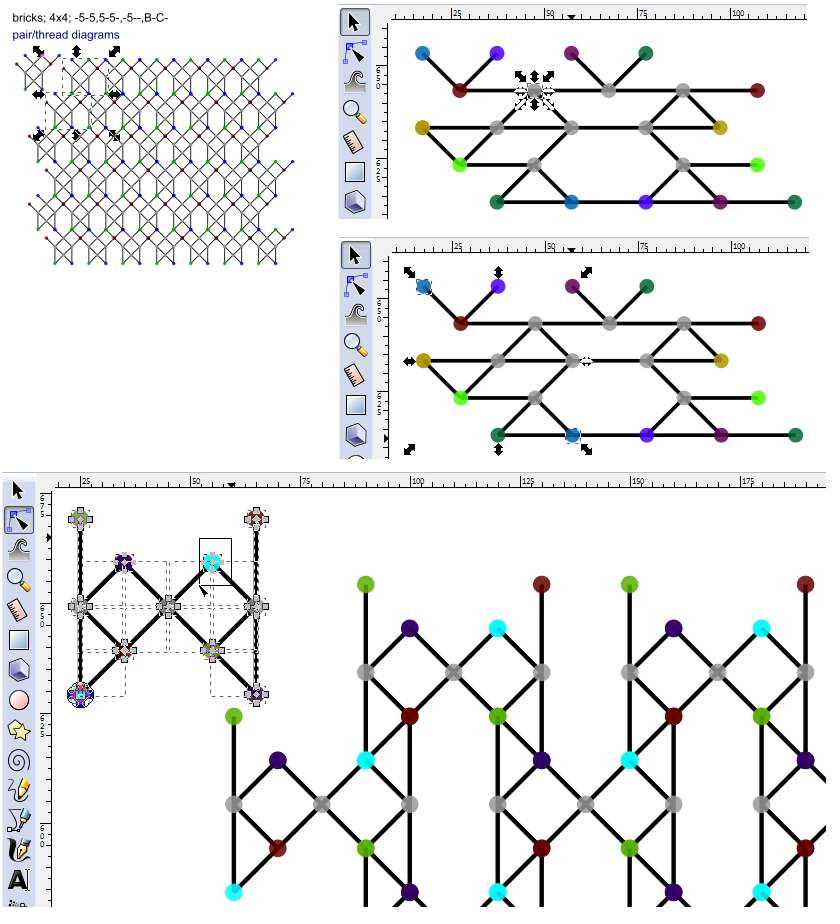
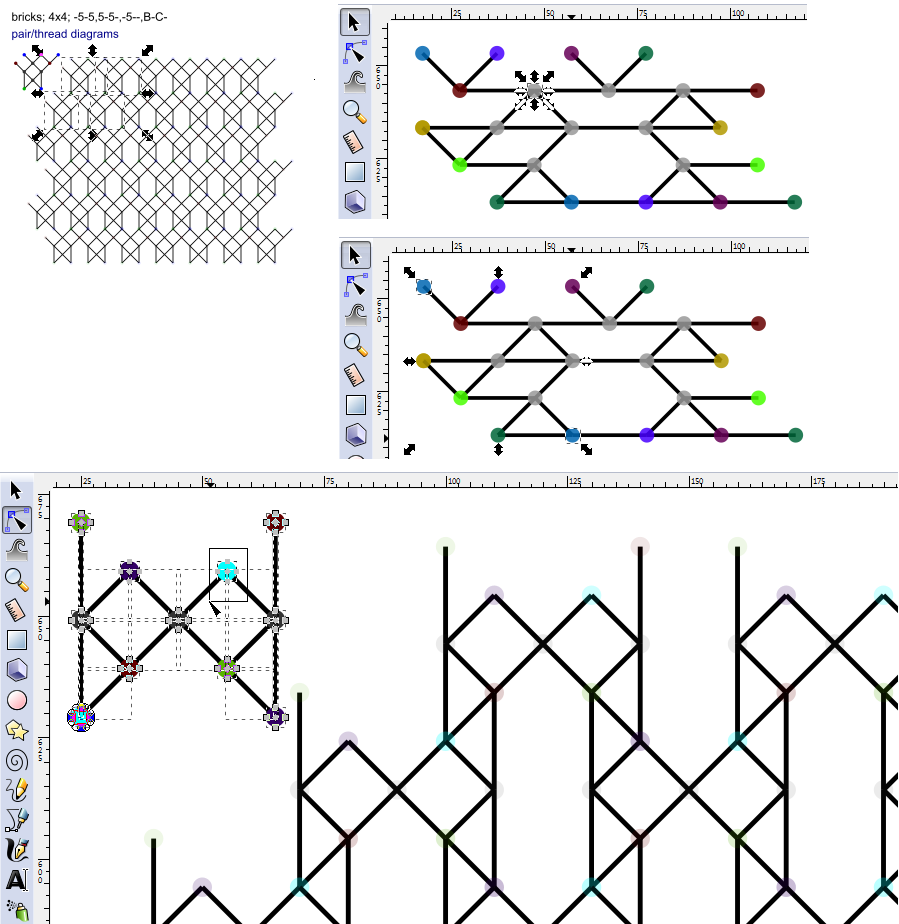
faint dots in clones don't distract from the pattern yet are visible when zooming in and thus explain behaviour after unlinking clones.

diff --git a/Reshape-Using-Copies.md b/Reshape-Using-Copies.md
@@ -1,6 +1,6 @@
 _Customize a generated pattern to your own taste._
 
-Colored dots help performing the tasks. Too many colors would be hard to distinguish. Therefore we have grey dots when there are four lines connecting with other dots.
+Colored dots help performing the tasks. Too many colors would be hard to distinguish. Therefore we have dark grey dots when there are four lines connecting with other dots.
 
 The procedure is written for any state of the art [SVG editor] but the screenshots were taken with InkScape, details may be slightly different with the editor of your choice.
 
@@ -12,8 +12,8 @@ The Procedure
 * Assemble a new patch with about four copies of the tile/repeat slightly separated from the downloaded patch. Just enough to get an impression of the pattern, yet not too much dots to select and move together. You may have to ungroup or break-apart to access just the group of objects you need.
 * The colored dots guide you how to seam the copies together. The process is illustrated by the screenshots below.
 * Select all the objects in the created patch and switch to node mode. A node mode allows you to change the shape of lines. The close-up of a dot in the screen shot shows the nodes that compose the circle of the dot, in the middle of the dot you see the nodes of the line ends.
-* Now you can select dots to move by dragging a rectangle around them as illustrated with the close up dot. You may need to hold down shift or alt key to add another dot to the selection, just try or check the tutorials or user guide of your editor.
-* You need to select the same dot in each repeat to keep the pattern repetitive. For grey dots you need to select just one per repeat. In case of a colored dot, you need to select all dots with that color.
+* Now you can select dots to move by dragging a rectangle around them as illustrated with the close up dot. You may need to hold down shift (or alt) key to add another dot to the selection, just try or check the tutorials or user guide of your editor.
+* You need to select the same dot in each repeat to keep the pattern repetitive. For dark grey dots you need to select just one per repeat. In case of a colored dot, you need to select all dots with that color.
 * With the proper dots selected you can nudge them into another position by the methods provided by your editor.
 
 When satisfied you can create a bigger patch the same way you moved the first four repeats together.
@@ -27,7 +27,7 @@ Screenshots
 
 _On top_: Generated patches with the initial tile/repeat selected.
 
-_Second row_: Assembling a new patch with four copies of the initial tile/repeat. Dots with the same color should still "merge" by snapping the groups of objects together. Between the two examples a close up of "merged" dots: some lines are less visible through the dot than others.
+_Second row_: Assembling a new patch with four copies of the initial tile/repeat. Dots with the same color should still "merge" by snapping the groups of objects together. Between the two examples a close up of "merged" dots, the dashed lines mark the bounding boxes of the lines and dot. The end nodes of the lines sit at the centre behind the dots.
 
 _At the bottom_: One dot per tile/repeat selected and nudged to another position.
 
